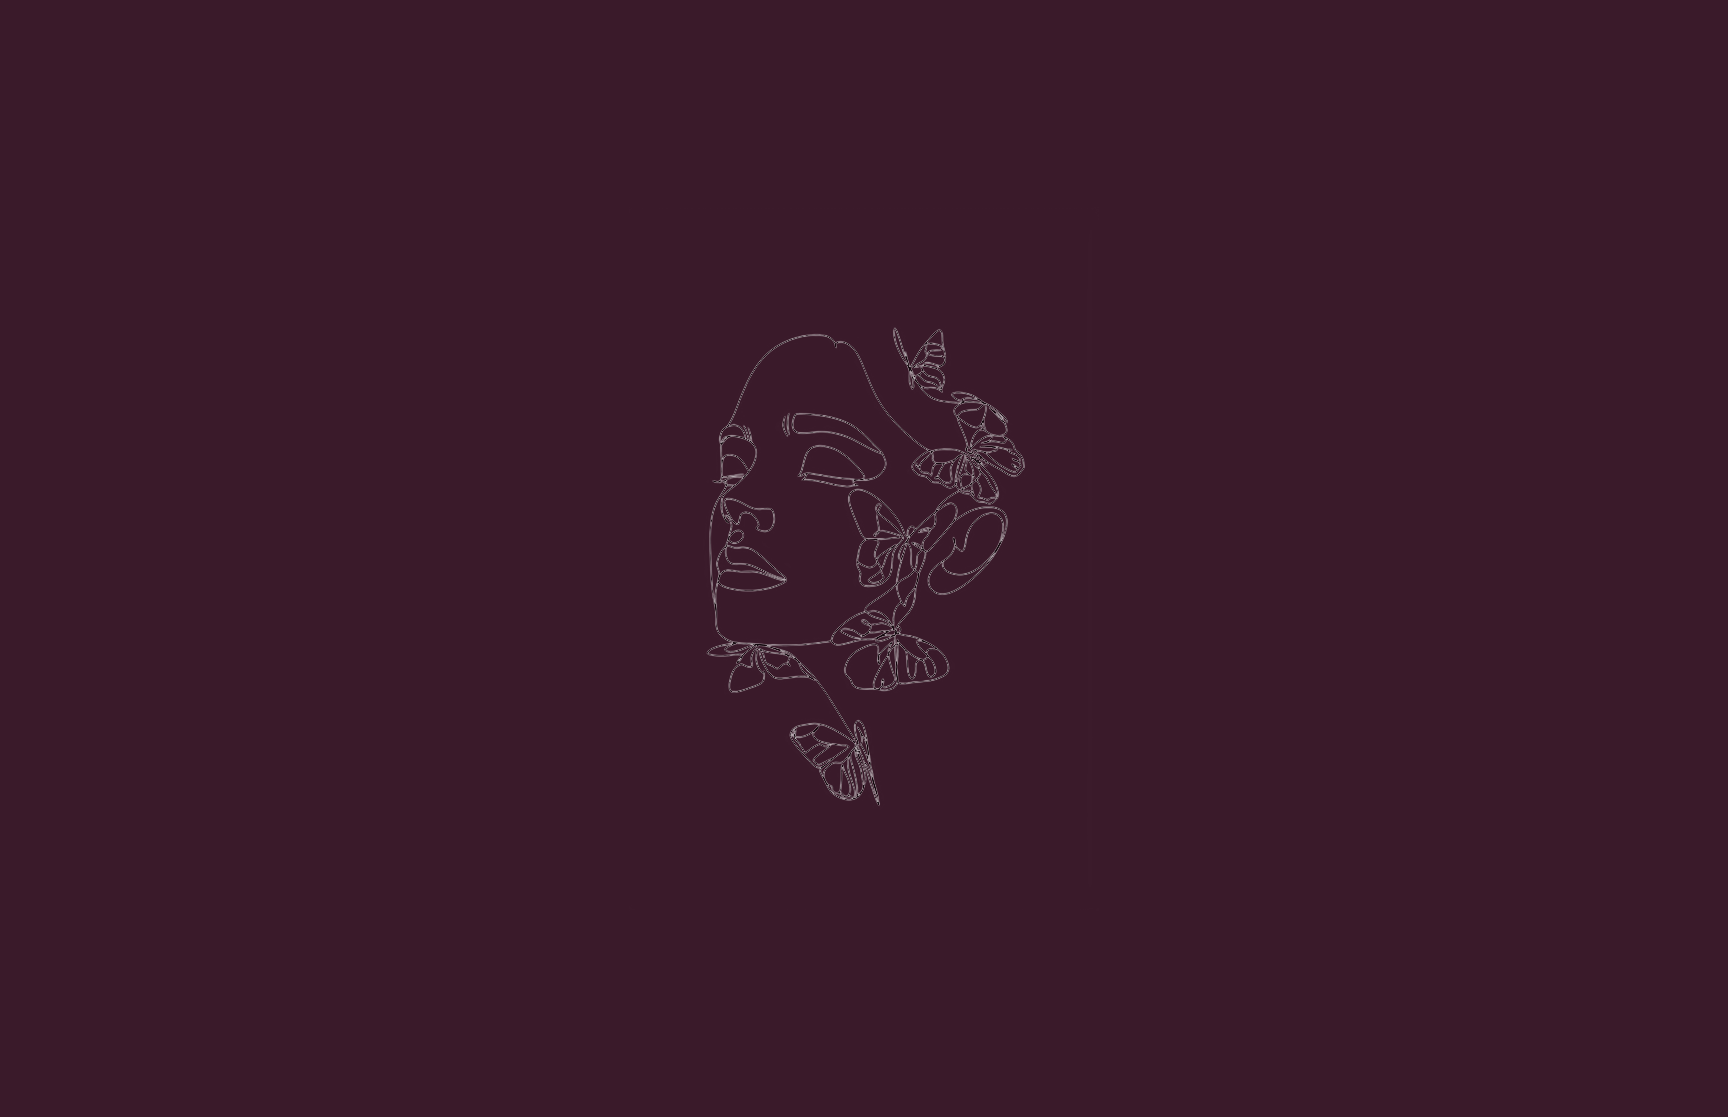
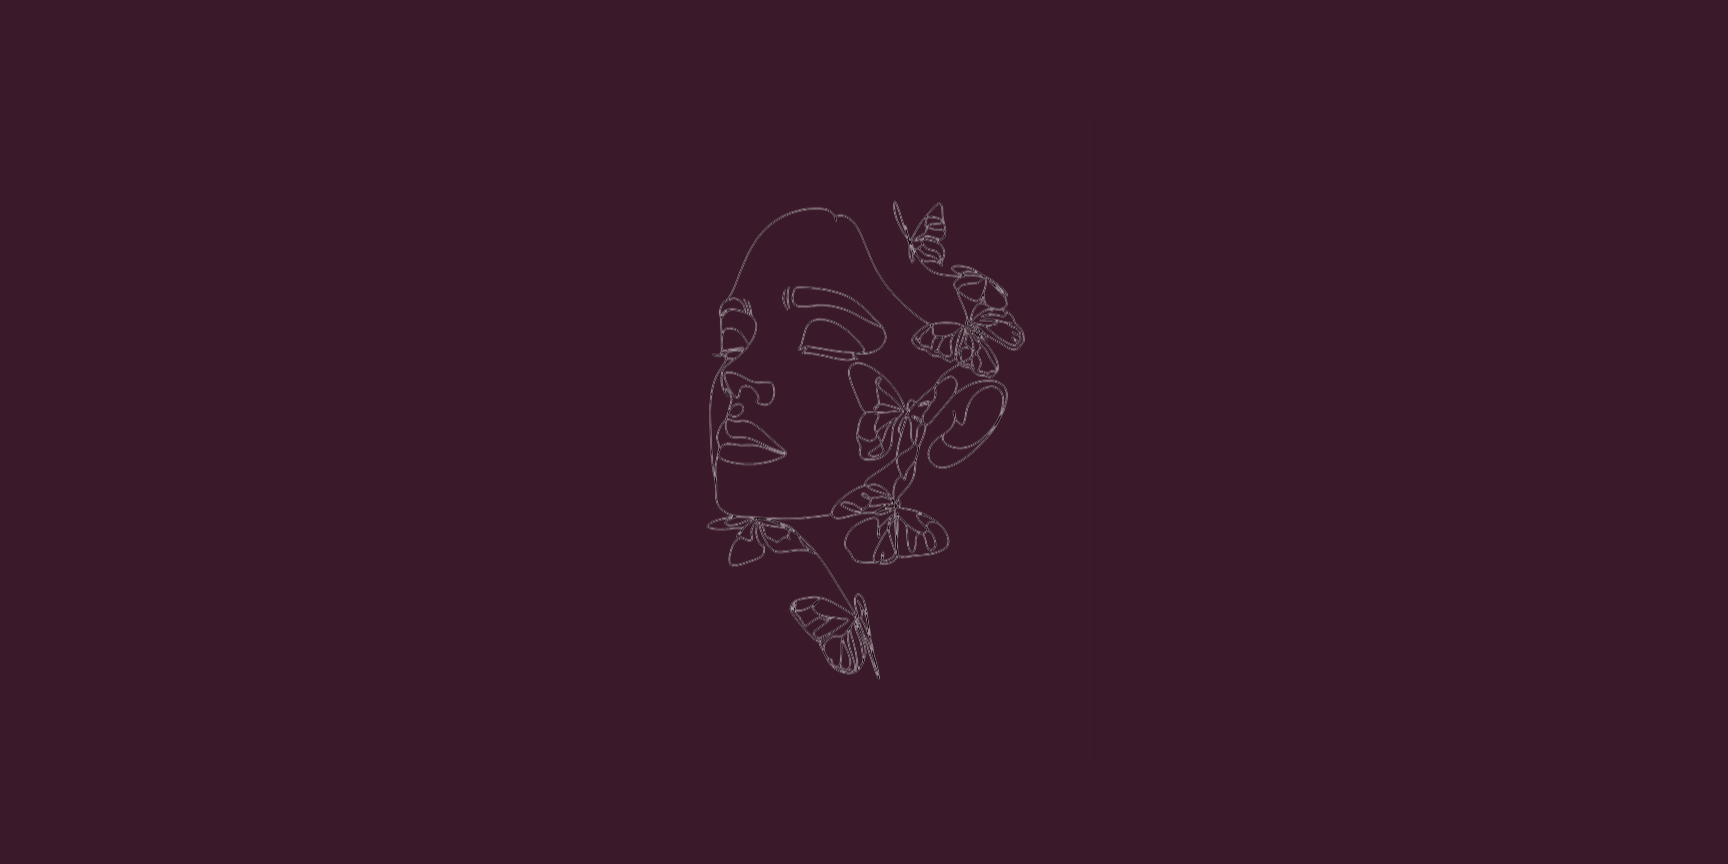
pushhhhhh

Changed region(s): [[0.4062, 0.25, 0.5938, 0.7812]]

diff --git a/cs-stitchings/src/cs/home.html b/cs-stitchings/src/cs/home.html
@@ -1,0 +1,47 @@
+<!DOCTYPE html>
+<html lang="en">
+<head>
+  <meta charset="UTF-8" />
+  <meta name="viewport" content="width=device-width, initial-scale=1.0"/>
+  <title>CS Stitchings</title>
+  <link rel="icon" href="Assets/CS stitching-logo.jpg">
+  <link rel="stylesheet" href="home.css"/>
+  <!--FONTS-->
+  <link rel="preconnect" href="https://fonts.googleapis.com">
+  <link rel="preconnect" href="https://fonts.gstatic.com" crossorigin>
+  <link href="https://fonts.googleapis.com/css2?family=Italianno&display=swap" rel="stylesheet">
+  <link rel="preconnect" href="https://fonts.googleapis.com">
+  <link rel="preconnect" href="https://fonts.gstatic.com" crossorigin>
+  <link href="https://fonts.googleapis.com/css2?family=Cormorant+Upright:wght@300;400;500;600;700&family=Italianno&display=swap" rel="stylesheet">
+</head>
+<body>
+    <header>
+        <div id="navigation">
+            <h1 id="Italianno">CS Stitching</h1>
+        </div>
+        <nav class="navbar">
+            <ul>
+                <li id="CormorantUP"><a href="home.html">Home</a></li>
+                <li id="CormorantUP"><a href="#">Wear The Look</a></li>
+                <li id="CormorantUP"><a href="#">Tailor It For Me</a></li>
+                <li id="CormorantUP"><a href="#">Moments Captured</a></li>
+                <li id="CormorantUP"><a href="ourStory.html">Our Story</a></li>
+                <li id="CormorantUP"><a href="">Reach Us</a></li>
+            </ul>
+        </nav>
+    </header>
+    <img id="seal" src="Assets/seal.png">
+    <main>
+        <div id="rectangle"></div>
+    </main>
+    <section id="section2">
+        <ul id="bar">
+            <li><img src="Assets/Casuals.png">Casuals</li>
+            <li><img src="Assets/traditional.png">Traditional</li>
+            <li><img src="Assets/western.png">Western</li>
+            <li><img src="Assets/officewear.png">Office Wear</li>
+        </ul>
+    </section>
+    
+</body>
+</html>

diff --git a/cs-stitchings/src/cs/home.css b/cs-stitchings/src/cs/home.css
@@ -1,0 +1,63 @@
+#navigation {
+  background-color: rgba(255, 174, 211, 0.5);
+  text-align: center;
+  padding: 0;   /* don’t add extra padding */
+}
+#navigation h1 {
+  font-size: 50px;     /* smaller text, if you want */
+  color: #ffffff;
+  line-height: 1.2;    /* instead of 200% */
+  margin: 0;           /* remove default h1 margin */
+  padding: 5px 0;      /* control thickness manually */
+}
+
+body{
+    background-image: url(/cs-stitchings/src/cs/Assets/girl.png);
+}
+body{
+    margin: 0%;
+    padding: 0%;
+}
+.navbar ul {
+  list-style: none;
+  margin: 0;
+  padding: 0;
+  position: relative;
+}
+.navbar ul {
+  display: flex;
+  justify-content: center; /* this is what centers them horizontally */
+}
+
+.navbar a {
+  font-size: large;
+  text-decoration: none;  /* removes underline */
+  color: white;           /* text color */
+  padding: 10px 20px;     /* gives clickable area */
+  display: block;         /* makes padding work fully */
+}
+
+#seal {
+  position: absolute;   /* allows free placement */
+  bottom: 1%;            /* adjust as needed */
+  left: 42%;           /* adjust as needed */
+  z-index: 10;          /* makes sure it's above the white box */
+}
+#rectangle{
+  background-color: #F3EFF9;
+  padding: 3%;
+  position: absolute;
+  bottom: 0;
+  left: 0;
+  width: 100%;
+}
+#Italianno{
+    font-family: "Italianno", cursive;
+    font-weight: 400;
+    font-style: normal;
+}
+#CormorantUp{
+  font-family: "Cormorant Upright", serif;
+  font-weight: 400;
+  font-style: normal;
+}

diff --git a/cs-stitchings/src/Email Subscirption/emailSub.html b/cs-stitchings/src/Email Subscirption/emailSub.html
@@ -28,13 +28,14 @@
       </p>
 
       <form class="signup-form">
-        <input type="text" placeholder="Name" name="name">
-        <input type="email" placeholder="E-mail" name="email">
+        <input id="name" type="text" placeholder="Name" name="name">
+        <input id="email"type="email" placeholder="E-mail" name="email">
         <input type="password" placeholder="Password" name="password">
         <button type="submit">Submit</button>
       </form>
     </section>
 
   </main>
+  <script src="subs.js"></script>
 </body>
 </html>
